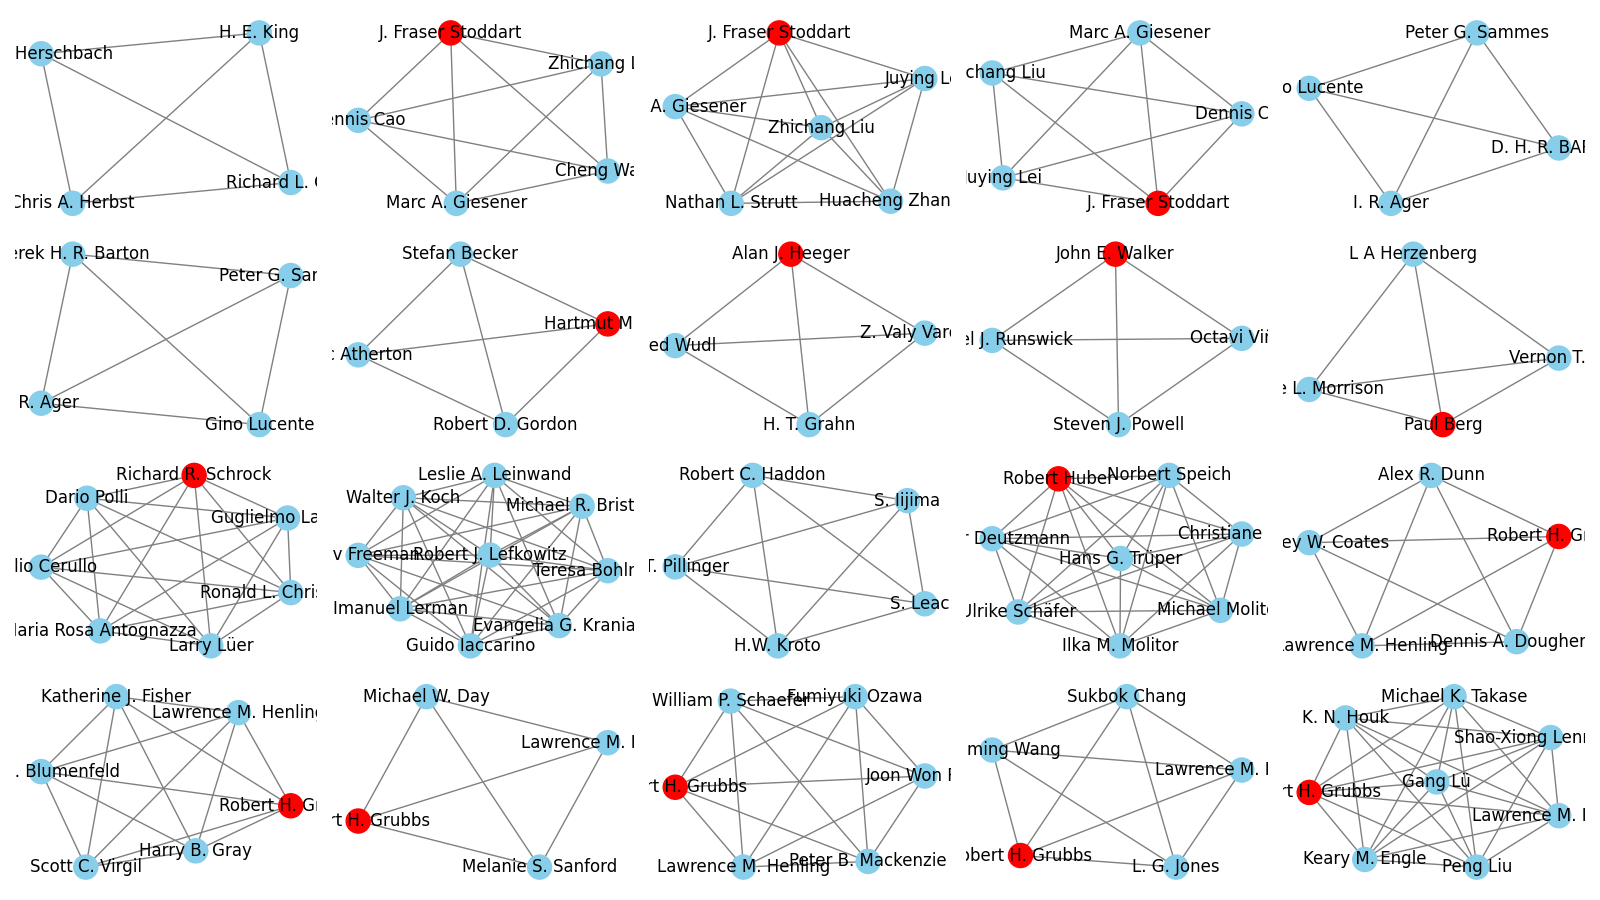
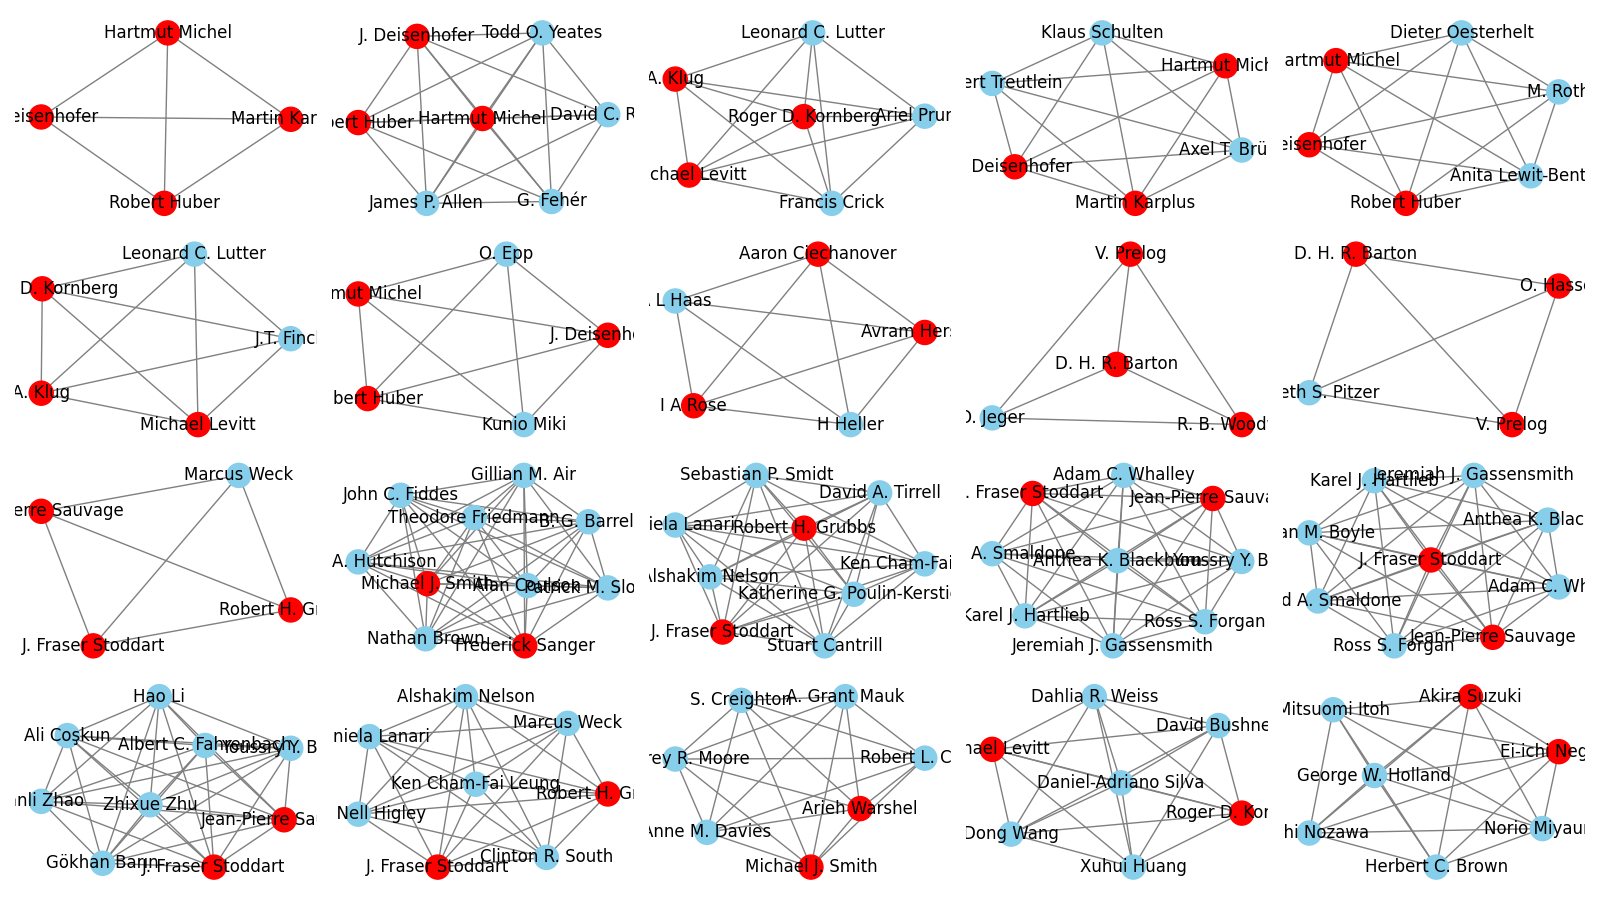
ADD: cliques nobel ordered

diff --git a/code/centrality_no_graph.py b/code/centrality_no_graph.py
@@ -115,24 +115,33 @@ def find_cliques(G):
     cliques = list(nx.find_cliques(G))
     return cliques
 
+def cliques_by_nobel_count(cliques, winners, min_size=4):
+    """
+    Returns list of (clique, n_nobel) tuples, sorted by n_nobel descending, then clique size descending.
+    Only cliques of at least min_size are considered.
+    """
+    return sorted(
+        ((clique, sum(1 for n in clique if n in winners)) for clique in cliques if len(clique) >= min_size),
+        key=lambda x: (x[1], len(x[0])), reverse=True
+    )
+
 def draw_all_cliques(G, cliques, topic, winners=None, min_size=4, max_plots=20):
     """
-    Draw the largest or most relevant cliques as subgraphs in a single image and save it.
+    Draw the cliques with the most Nobel winners (ties broken by clique size) as subgraphs in a landscape image.
     Only cliques of at least min_size will be shown, up to max_plots cliques.
     Nobel winners (from the winners set) are highlighted.
-    The image is saved in landscape orientation, as a normal page (multiple rows if needed).
     """
-    # Filter to only cliques with size >= min_size
-    filtered_cliques = [c for c in cliques if len(c) >= min_size]
-    # Limit to max_plots cliques for display
-    filtered_cliques = filtered_cliques[:max_plots]
+    if winners is None:
+        winners = set()
+    # Get top cliques by Nobel count, then size
+    interesting = cliques_by_nobel_count(cliques, winners, min_size=min_size)
+    filtered_cliques = [c for c, n_nobel in interesting if n_nobel > 0][:max_plots]
     n = len(filtered_cliques)
     if n == 0:
-        print("No cliques of minimum size to plot.")
+        print("No cliques with Nobel winners and of minimum size to plot.")
         return
 
-    # Set up a landscape "normal" page with multiple rows and columns
-    # For landscape A4, let's use width=16, height=9 (approx. ratio)
+    # Arrange subplots in landscape, multiple rows/columns (A4/16:9 style)
     cols = min(5, n)
     rows = (n + cols - 1) // cols
     fig, axes = plt.subplots(rows, cols, figsize=(16, 9))
@@ -143,15 +152,14 @@ def draw_all_cliques(G, cliques, topic, winners=None, min_size=4, max_plots=20):
 
     for ax, clique in zip(axes, filtered_cliques):
         H = G.subgraph(clique)
-        # Highlight Nobel winners
         node_colors = []
         for node in H.nodes:
-            if winners and node in winners:
+            if node in winners:
                 node_colors.append('red')
             else:
                 node_colors.append('skyblue')
         nx.draw(H, ax=ax, with_labels=True, node_color=node_colors, edge_color='gray')
-        ax.set_title("")
+        ax.set_title("")  # No label
 
     # Hide any unused subplots
     for ax in axes[len(filtered_cliques):]:
@@ -194,7 +202,7 @@ def save_extra_metrics(G, topic, winners=None):
     pd.DataFrame({'clique': [', '.join(cl) for cl in cliques]}).to_csv(cliques_csv_path, index=False)
     print(f"All cliques saved to {cliques_csv_path}")
 
-    # Draw the cliques as graphs, passing winners for highlighting
+    # Draw the most interesting cliques
     draw_all_cliques(G, cliques, topic, winners=winners)
 
     return metrics

diff --git a/code/main.py b/code/main.py
@@ -54,7 +54,7 @@ def extract_dataframe_by_topic(csv_file, topic):
     failed_dois = pd.DataFrame(columns=["laureate_id","laureate_name","prize_year","title","journal","affiliation","is_prize_winning","locations_count","locations","doi","error_message"])
     skipped_papers = pd.DataFrame(columns=["laureate_id","laureate_name","prize_year","title","journal","affiliation","is_prize_winning","doi","reason"])
 
-    success_path = f"import/success_{topic}_merged.csv"
+    success_path = f"import/success_{topic}.csv"
     fails_path = f"import/failed_{topic}.csv"
     skipped_path = f"import/skipped_{topic}.csv"
 
@@ -249,7 +249,7 @@ def main():
     }
     
     what_to_search = topic_files[topic]
-    success_path = f"import/success_{topic}_merged.csv"
+    success_path = f"import/success_{topic}.csv"
     checkpoints_folder = f"checkpoints_{topic}"
     
     print(f"Processing TOPIC: {topic}")
